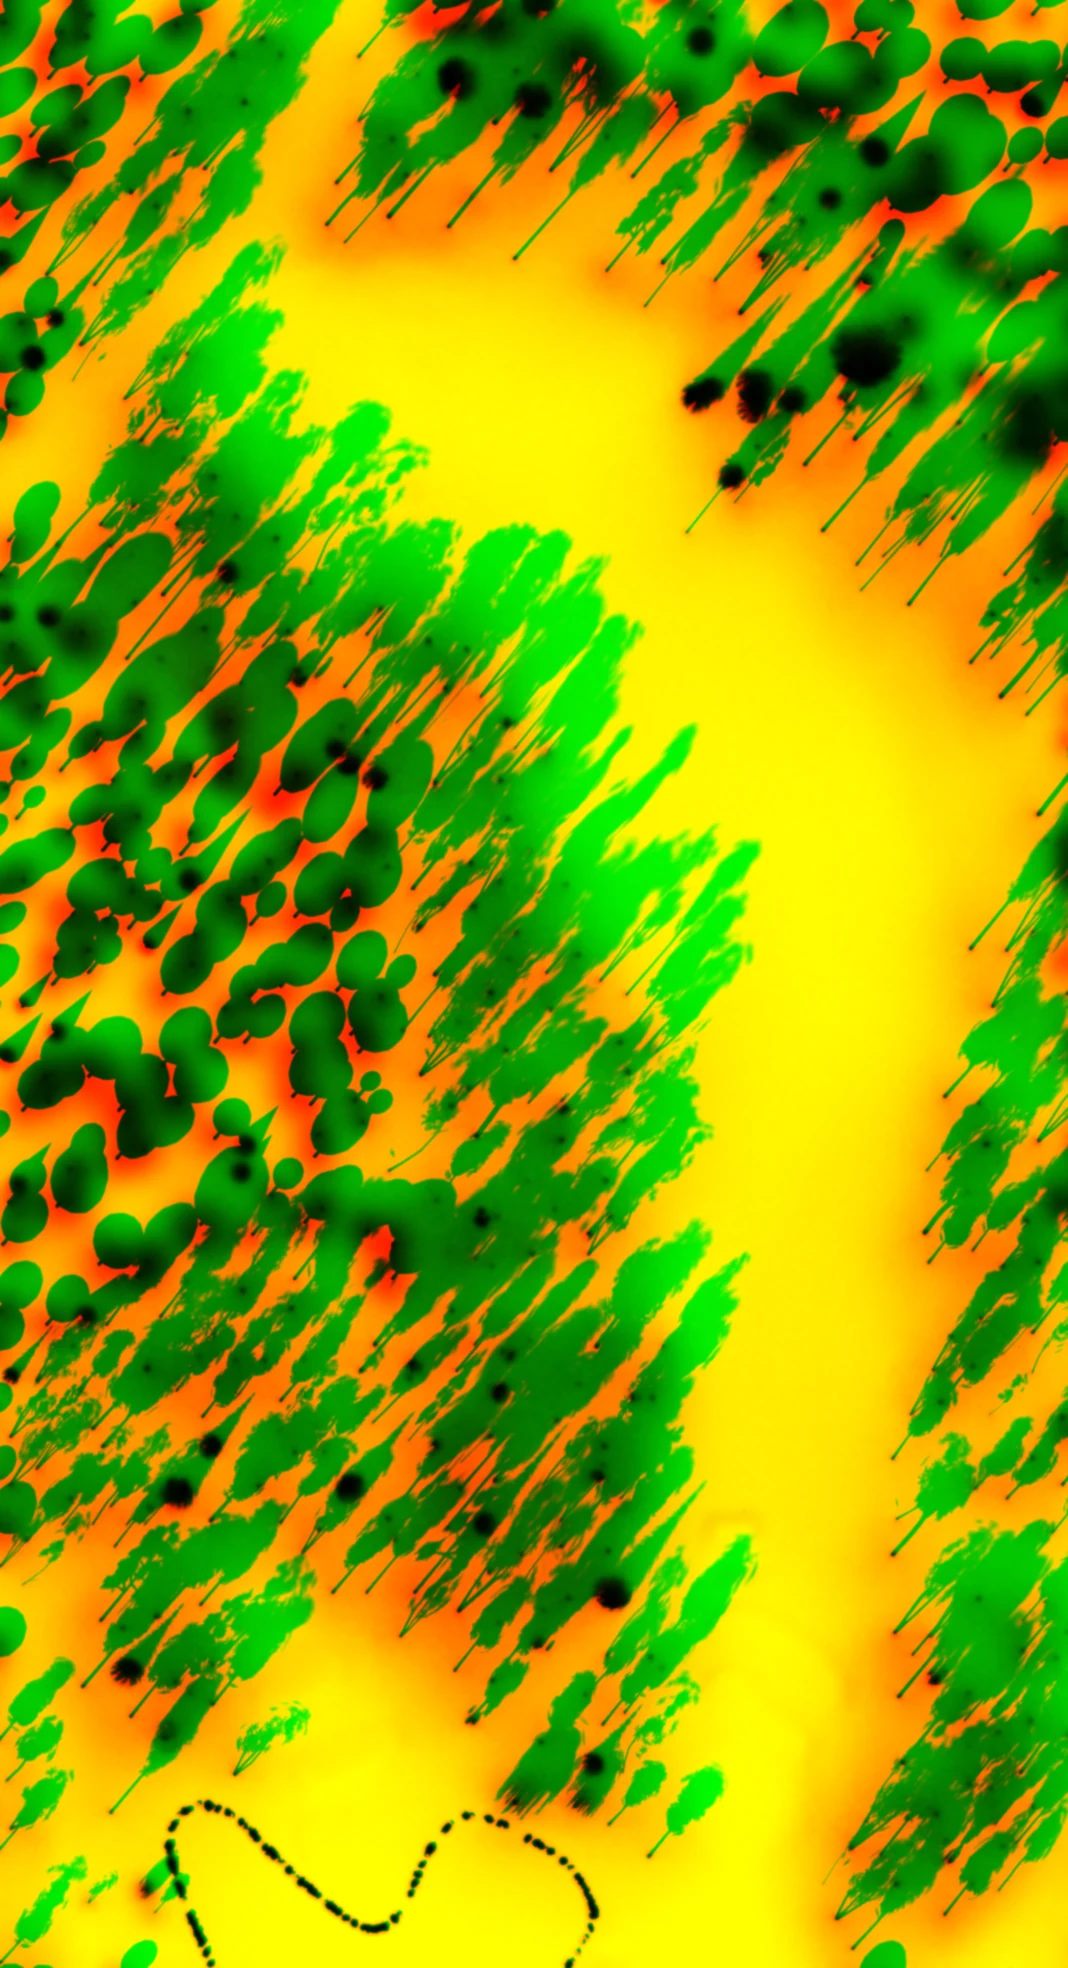
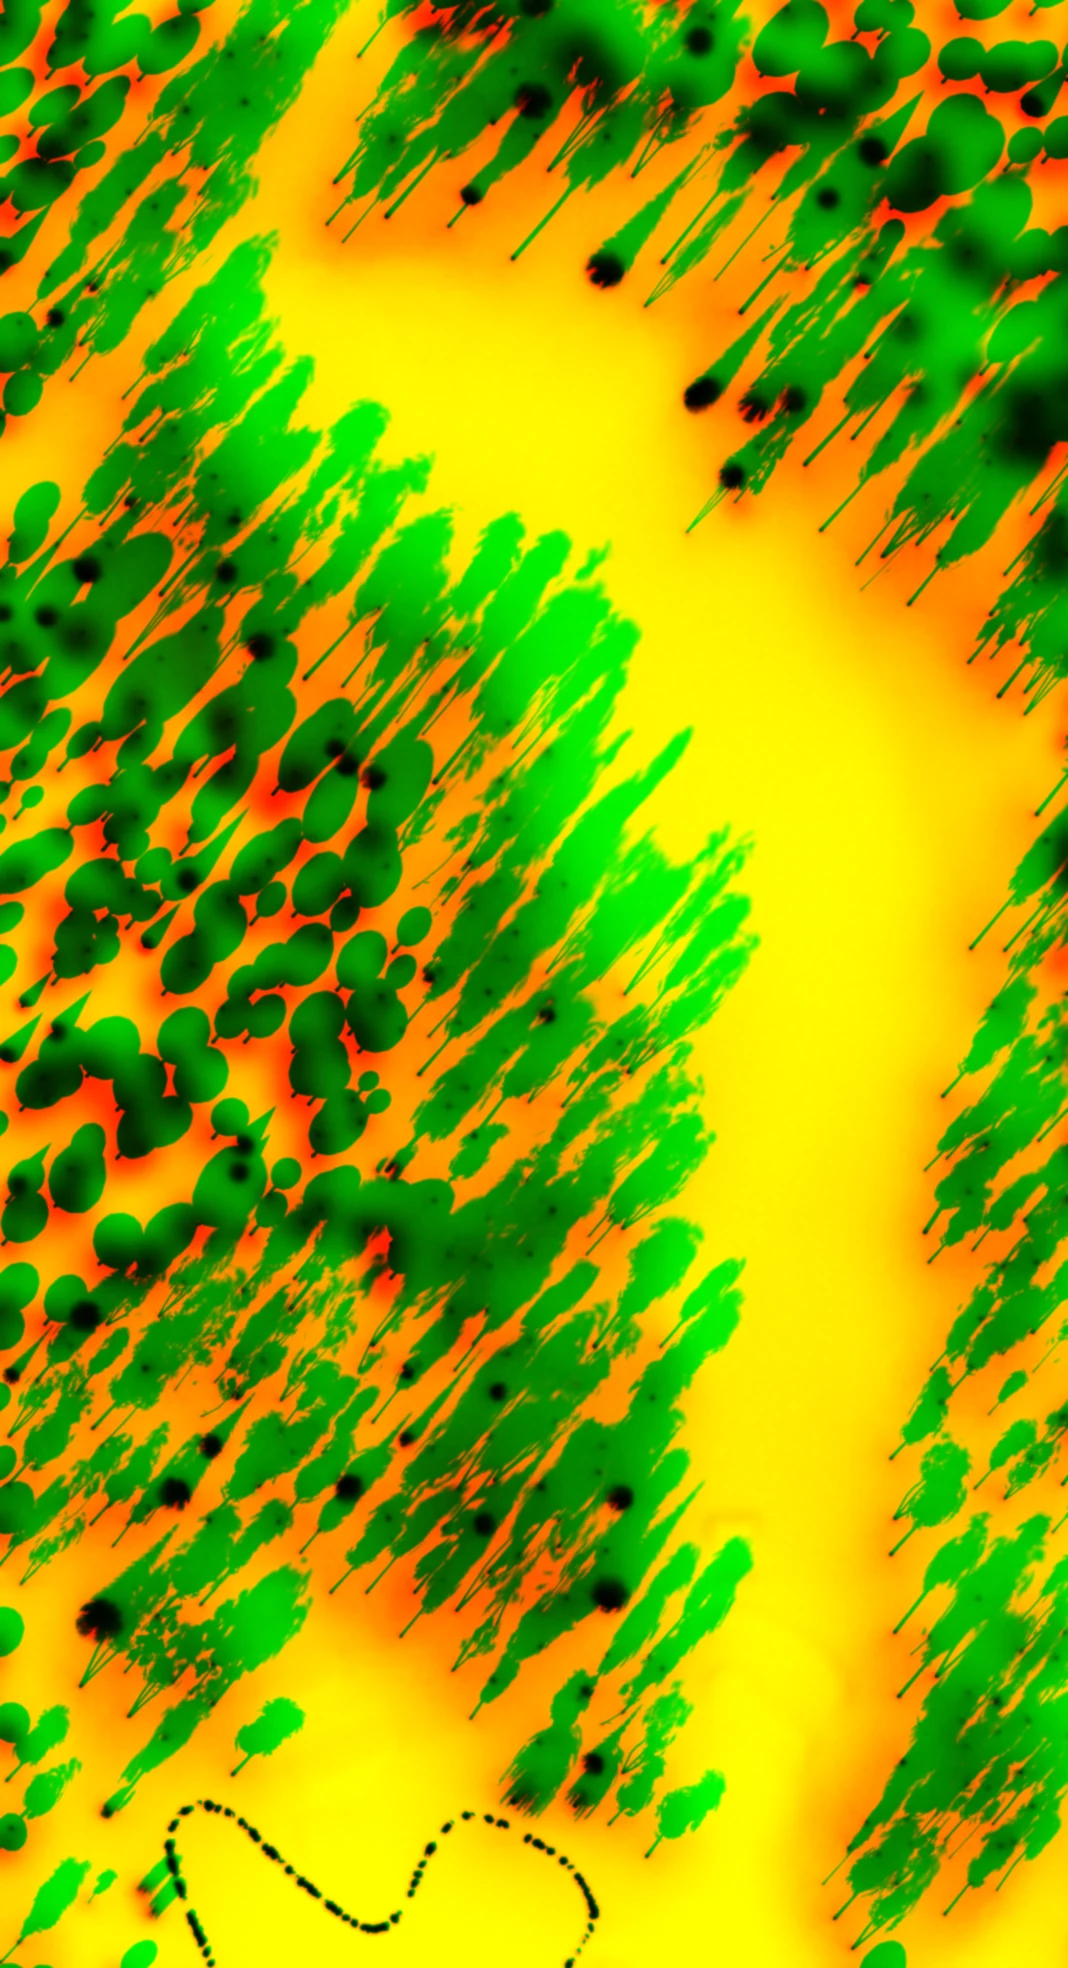
Blender light rebaked with the measured trees: legend

diff --git a/index.html b/index.html
@@ -2,7 +2,7 @@
 <html lang="en">
 <head>
 <meta charset="utf-8">
-<meta name="gg-build" content="61ea5ee279">
+<meta name="gg-build" content="16b312a21e">
 <meta name="viewport" content="width=device-width,initial-scale=1,viewport-fit=cover">
 <meta name="apple-mobile-web-app-capable" content="yes">
 <meta name="mobile-web-app-capable" content="yes">
@@ -1082,7 +1082,7 @@ window.THREE={ACESFilmicToneMapping:et,AddEquation:y,AddOperation:J,AdditiveAnim
 <script src="data/COURSE_IMG.js?v=23a6e18ef6"></script>
 <!-- /data files -->
 <!-- game code: tools/datafiles.py (the game is in src/) -->
-<script>(function(){var P=["src/start.js?v=d8ceba60e2","src/clubs-and-surfaces.js?v=175a1b0163","src/hole-construction-from-the.js?v=2abe9d5bd9","src/terrain-height.js?v=a37f63fe87","src/terrain-texture.js?v=a3e96548c6","src/lighting-shared-by-every.js?v=cd5a62476a","src/realism.js?v=aa16e80b0d","src/surroundings.js?v=74bd8e969d","src/built-things.js?v=f98fc21593","src/sky-dome.js?v=1c137437ce","src/webgl-ground.js?v=5d371faab8","src/state.js?v=0620065d3e","src/sound.js?v=e6a171fee3","src/ui-helpers.js?v=101dacc8d1","src/flow.js?v=395fe450d7","src/save-file.js?v=73a0901dda","src/daily-round.js?v=59564241f5","src/a-golfer-s-daily.js?v=999de9775c","src/menu.js?v=58010d20df","src/pause-screen-and-feedback.js?v=b5ab620041","src/v107-help-and-faq.js?v=73740ead25","src/course-requests.js?v=1b264636bf","src/career.js?v=8c56e6444d","src/golfers.js?v=ac0e2525f8","src/match-state.js?v=7a407e7535","src/the-rival-s-shot.js?v=aedfc0dd26","src/career-screens.js?v=834dde70da","src/camera.js?v=72b4256890","src/3d-meshes.js?v=031d0e6eb9","src/divots.js?v=5d712295af","src/feel.js?v=cc5f67f75b","src/render.js?v=bbfcd83bef","src/choosing-a-golfer.js?v=59f6ffe37b","src/arm-ik.js?v=a254fdde50","src/real-tree-positions-from.js?v=0488c42a77","src/shader-patches-shared-by.js?v=1d67bace22","src/ground.js?v=95a21c663d","src/sky.js?v=cb305a137b","src/weather.js?v=1fc7d09e82","src/per-hole-scene-content.js?v=8522a6ceff","src/immediate-mode-primitives.js?v=0052447815","src/camera-straight-from-v.js?v=1bad554182","src/post-chain.js?v=d105739265","src/hud.js?v=49f3bf64c8","src/loop.js?v=25bd5af309","src/saved-shots.js?v=57bf3fbf0a","src/input.js?v=768869bb54","src/home-screen.js?v=124d004c02","src/sizing.js?v=67b1e861b4","src/boot.js?v=364c778f34"],t="",i,x;for(i=0;i<P.length;i++){x=new XMLHttpRequest();x.open("GET",P[i],false);x.send();if(x.status!==200&&x.status!==0)throw new Error("game code: could not load "+P[i]);t+=x.responseText;}var s=document.createElement("script");s.text="\n"+t+"//# sourceURL=game.js\n";document.currentScript.after(s);})();</script>
+<script>(function(){var P=["src/start.js?v=d8ceba60e2","src/clubs-and-surfaces.js?v=175a1b0163","src/hole-construction-from-the.js?v=2abe9d5bd9","src/terrain-height.js?v=a37f63fe87","src/terrain-texture.js?v=a3e96548c6","src/lighting-shared-by-every.js?v=cd5a62476a","src/realism.js?v=aa16e80b0d","src/surroundings.js?v=74bd8e969d","src/built-things.js?v=f98fc21593","src/sky-dome.js?v=1c137437ce","src/webgl-ground.js?v=5d371faab8","src/state.js?v=0620065d3e","src/sound.js?v=e6a171fee3","src/ui-helpers.js?v=101dacc8d1","src/flow.js?v=395fe450d7","src/save-file.js?v=73a0901dda","src/daily-round.js?v=4258e4e181","src/a-golfer-s-daily.js?v=999de9775c","src/menu.js?v=58010d20df","src/pause-screen-and-feedback.js?v=b5ab620041","src/v107-help-and-faq.js?v=73740ead25","src/course-requests.js?v=1b264636bf","src/career.js?v=8c56e6444d","src/golfers.js?v=ac0e2525f8","src/match-state.js?v=7a407e7535","src/the-rival-s-shot.js?v=aedfc0dd26","src/career-screens.js?v=834dde70da","src/camera.js?v=72b4256890","src/3d-meshes.js?v=031d0e6eb9","src/divots.js?v=5d712295af","src/feel.js?v=cc5f67f75b","src/render.js?v=bbfcd83bef","src/choosing-a-golfer.js?v=59f6ffe37b","src/arm-ik.js?v=a254fdde50","src/real-tree-positions-from.js?v=0488c42a77","src/shader-patches-shared-by.js?v=1d67bace22","src/ground.js?v=95a21c663d","src/sky.js?v=cb305a137b","src/weather.js?v=1fc7d09e82","src/per-hole-scene-content.js?v=8522a6ceff","src/immediate-mode-primitives.js?v=0052447815","src/camera-straight-from-v.js?v=1bad554182","src/post-chain.js?v=d105739265","src/hud.js?v=49f3bf64c8","src/loop.js?v=25bd5af309","src/saved-shots.js?v=57bf3fbf0a","src/input.js?v=768869bb54","src/home-screen.js?v=124d004c02","src/sizing.js?v=67b1e861b4","src/boot.js?v=364c778f34"],t="",i,x;for(i=0;i<P.length;i++){x=new XMLHttpRequest();x.open("GET",P[i],false);x.send();if(x.status!==200&&x.status!==0)throw new Error("game code: could not load "+P[i]);t+=x.responseText;}var s=document.createElement("script");s.text="\n"+t+"//# sourceURL=game.js\n";document.currentScript.after(s);})();</script>
 <!-- /game code -->
 
 <script>/* What's New. Add the newest update at the TOP of UPDATES; its id must be new each time. */

diff --git a/src/daily-round.js b/src/daily-round.js
@@ -79,7 +79,7 @@ function b10K(){const c=b10On()&&typeof B10BAKE!=='undefined'&&B10BAKE.courses?B
   if(c&&typeof tlOn==='function'&&tlOn()!==!!c.mt)return null;   // light baked with other trees than the ones standing (measured vs photo): live shadows instead
   return c&&c.holes?c.holes[G.hi]||null:null;}   // this hole's baked light (b: bounds, png)
 function b10Hole(){return !!b10K();}
-function b10Load(done){const L=['b10/bake.js?v=51','b10/trees.js?v=3'];window.B10LEAF='b10/leaves.webp?v=1';let n=L.length;for(const s of L){const e=document.createElement('script');e.src=s;e.onload=e.onerror=()=>{if(--n===0)done();};document.head.appendChild(e);}}
+function b10Load(done){const L=['b10/bake.js?v=52','b10/trees.js?v=3'];window.B10LEAF='b10/leaves.webp?v=1';let n=L.length;for(const s of L){const e=document.createElement('script');e.src=s;e.onload=e.onerror=()=>{if(--n===0)done();};document.head.appendChild(e);}}
 function b10Trees(P){const dec=(s,T)=>{const b=atob(s),u=new Uint8Array(b.length);for(let i=0;i<b.length;i++)u[i]=b.charCodeAt(i);return new T(u.buffer);};
   const arr=(r,st)=>{const Pp=dec(r.P,Int16Array),N=dec(r.N,Int8Array),C=dec(r.C,Uint8Array),U=r.U?dec(r.U,Int16Array):null,o=new Array(r.n*st);
     for(let i=0;i<r.n;i++){const k=i*st;o[k]=Pp[i*3]/1000;o[k+1]=Pp[i*3+1]/1000;o[k+2]=Pp[i*3+2]/1000;o[k+3]=N[i*3]/127;o[k+4]=N[i*3+1]/127;o[k+5]=N[i*3+2]/127;

diff --git a/sw.js b/sw.js
@@ -1,6 +1,6 @@
 /* Golf Go offline cache. The page is checked online first (so updates show straight away) and falls back to the copy on
    this phone; course data carries a version tag (?v=…) and is kept until it changes; leaderboards always go to the network. */
-const V='e18b8da75e',B='61ea5ee279',CORE='core-'+V,ASSETS='assets';
+const V='cb7b15ffc6',B='16b312a21e',CORE='core-'+V,ASSETS='assets';
 const CORE_FILES=['./','index.html','manifest.webmanifest','icon-192.png','icon-512.png','apple-touch-icon.png'];
 const DATA=["greens.js?v=db85f90c53", "ground.js?v=4a589b8b73", "trees.js?v=5fc7c487ff", "char%20ch12.js?v=lg2", "char%20remy.js?v=lg2", "char%20ch01.js?v=lg2", "char_ch08.js?v=lg2", "char_ch42.js?v=lg2", "char_ch23.js?v=lg2", "char%20ch28.js?v=lg2", "char_mx_joe.js?v=lg2", "char_ch17.js?v=lg2", "char_mh_tyger.js?v=m4", "char_mh_jack.js?v=m4", "char_mh_arnie.js?v=m4", "char_mh_phil.js?v=m4", "char_mh_rory.js?v=m4", "char_mh_scotty.js?v=m4", "char_mh_seve.js?v=m4", "char_mh_barry.js?v=m4", "char_mh_hoagan.js?v=m4", "char_mh_payne.js?v=m4"];   // current versioned data files
 const PRE=[];   // publish build: the shared graphics files (a/ga_*.js?v=…), saved at install so even the first launch offline works
